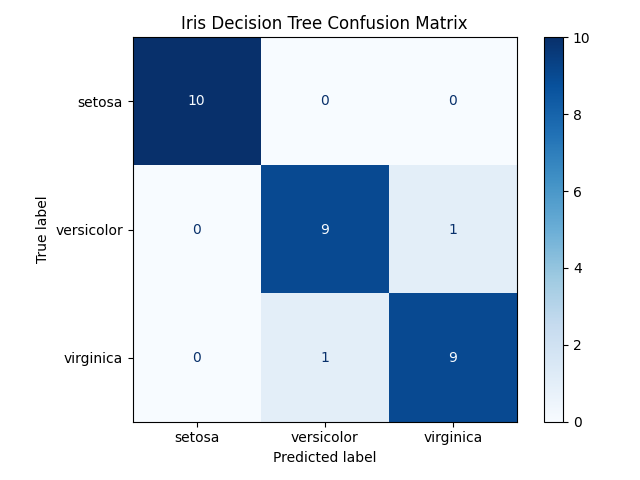
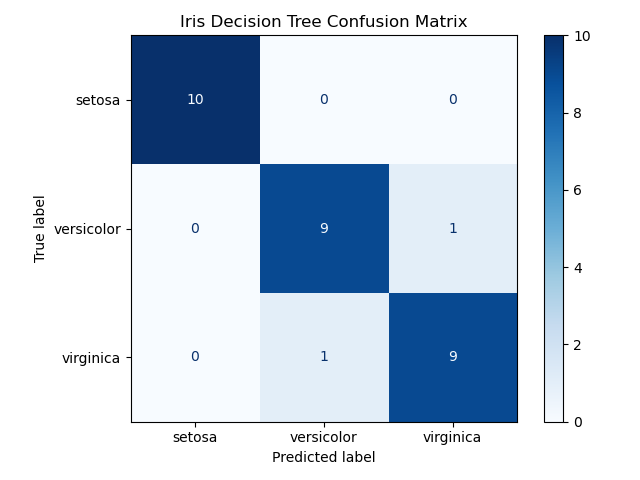
improved in train.py

diff --git a/src/train.py b/src/train.py
@@ -1,6 +1,7 @@
 from argparse import ArgumentParser
 from pathlib import Path
 
+import joblib
 import matplotlib.pyplot as plt
 from sklearn.datasets import load_iris
 from sklearn.metrics import ConfusionMatrixDisplay, accuracy_score, confusion_matrix
@@ -27,7 +28,9 @@ def train_and_evaluate(test_size=0.2, random_state=42, output_dir="outputs"):
 
     output_path = Path(output_dir)
     output_path.mkdir(parents=True, exist_ok=True)
+    model_path = output_path / "model.joblib"
     figure_path = output_path / "confusion_matrix.png"
+    joblib.dump(model, model_path)
 
     display = ConfusionMatrixDisplay(
         confusion_matrix=matrix,
@@ -39,7 +42,7 @@ def train_and_evaluate(test_size=0.2, random_state=42, output_dir="outputs"):
     plt.savefig(figure_path)
     plt.close()
 
-    return accuracy, matrix, figure_path
+    return accuracy, matrix, figure_path, model_path
 
 
 def parse_args():
@@ -52,7 +55,7 @@ def parse_args():
 
 def main():
     args = parse_args()
-    accuracy, matrix, figure_path = train_and_evaluate(
+    accuracy, matrix, figure_path, model_path = train_and_evaluate(
         test_size=args.test_size,
         random_state=args.random_state,
         output_dir=args.output_dir,
@@ -62,6 +65,7 @@ def main():
     print("Confusion matrix:")
     print(matrix)
     print(f"Saved confusion matrix figure to: {figure_path}")
+    print(f"Saved model to: {model_path}")
 
 
 if __name__ == "__main__":

diff --git a/tests/test_train.py b/tests/test_train.py
@@ -4,8 +4,9 @@ from src.train import train_and_evaluate
 
 
 def test_train_and_evaluate_creates_output(tmp_path):
-    accuracy, matrix, figure_path = train_and_evaluate(output_dir=tmp_path)
+    accuracy, matrix, figure_path, model_path = train_and_evaluate(output_dir=tmp_path)
 
     assert accuracy >= 0.9
     assert matrix.shape == (3, 3)
     assert Path(figure_path).exists()
+    assert Path(model_path).exists()
